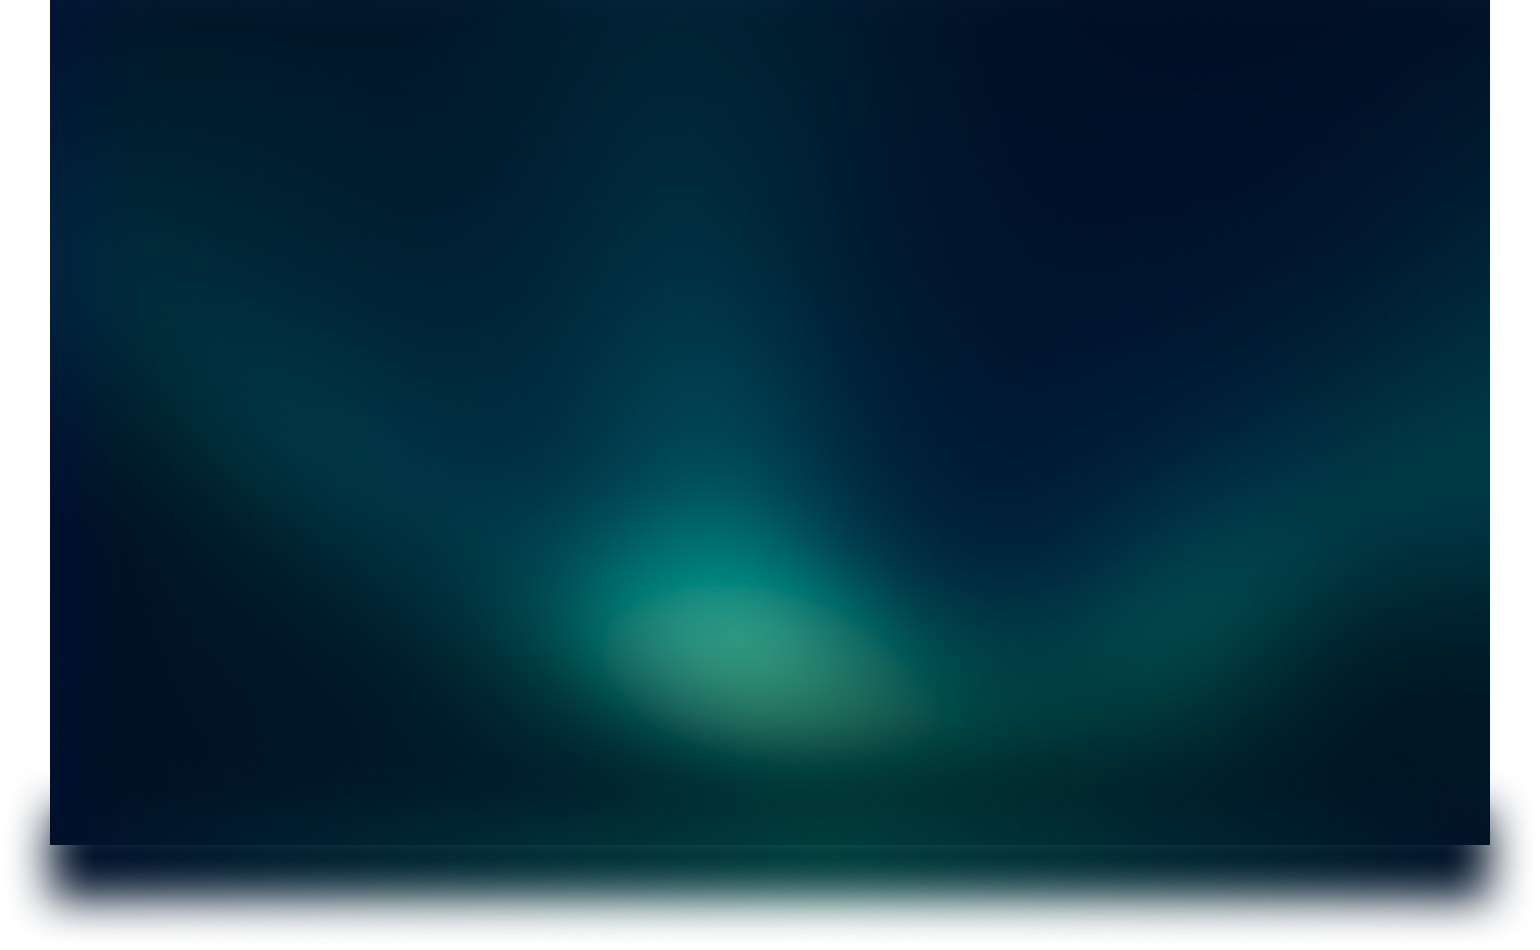
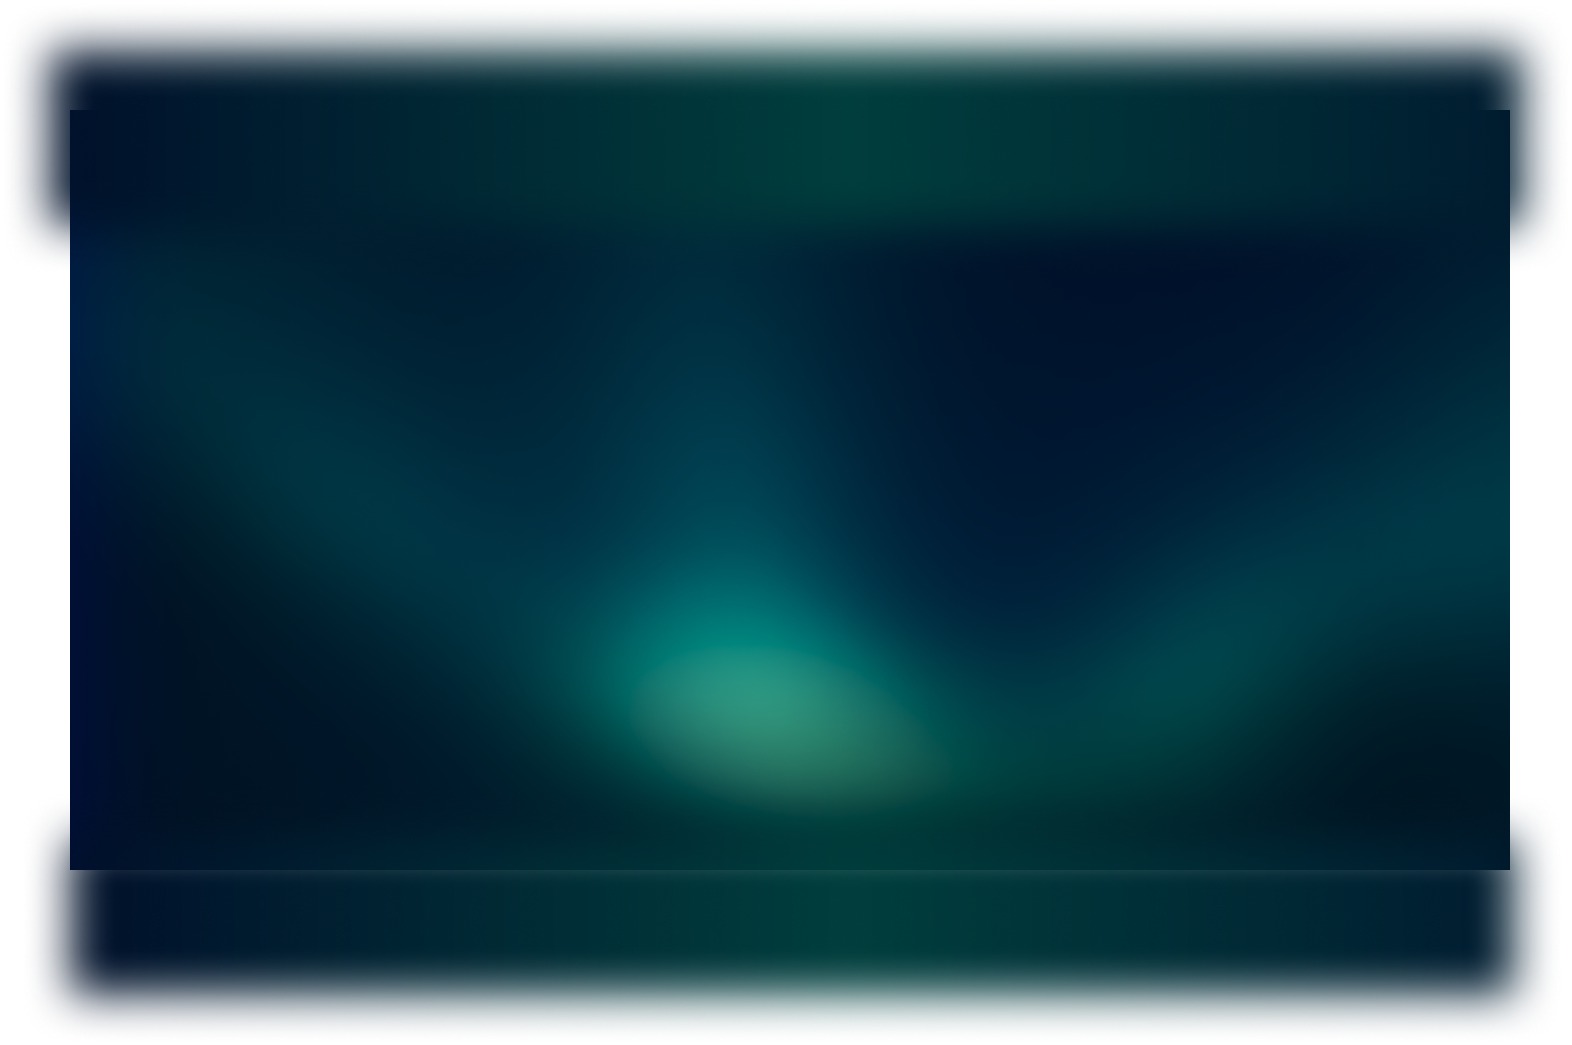
feat: Updates

Changed region(s): [[0.0, 0.0, 0.9974, 0.9768]]

diff --git a/app/components/Home/Hero.tsx b/app/components/Home/Hero.tsx
@@ -5,6 +5,8 @@ import Line from '@/app/components/shared/Line'
 import AppStore from '@/public/Images/AppStore.png'
 import GooglePlay from '@/public/Images/GooglePlay.png'
 import HeroBG from '@/public/Images/Hero BG.png'
+import HeroOverlayImage1 from '@/public/Images/Card.png'
+import HeroOverlayImage2 from '@/public/Images/User.png'
 import { contents } from '@/app/data/contents'
 // import HeroOverlay from '@/public/Images/HeroOverlay.png'
 
@@ -103,7 +105,7 @@ export default function Hero({ mode, setMode }: HeroProps) {
         </div>
 
         {/* RIGHT COLUMN: Hero Illustration */}
-        <div className="relative flex justify-end bg-transparent w-full md:mt-48 lg:mt-0">
+        {/* <div className="relative flex justify-end bg-transparent w-full md:mt-48 lg:mt-0">
           <div className="w-full h-75 lg:h-full lg:absolute transition-opacity duration-500">
             <Image
               src={contents[mode].image}
@@ -115,6 +117,46 @@ export default function Hero({ mode, setMode }: HeroProps) {
                 mode === 'crypto' ? 'lg:scale-130' : 'lg:scale-110'
               } w-full animate-in fade-in zoom-in duration-700`}
             />
+          </div>
+        </div> */}
+
+        {/* RIGHT COLUMN: Hero Illustration */}
+        <div className="relative flex justify-end bg-transparent w-full md:mt-48 lg:mt-0">
+          <div className="w-full h-75 lg:h-full lg:absolute transition-opacity duration-500">
+            {/* MAIN ILLUSTRATION */}
+            <Image
+              src={contents[mode].image}
+              alt="Payboost Illustration"
+              key={mode}
+              priority
+              fill
+              className={`object-contain scale-125 md:scale-200 ${
+                mode === 'crypto' ? 'lg:scale-130' : 'lg:scale-110'
+              } w-full animate-in fade-in zoom-in duration-700`}
+            />
+
+            {/* OVERLAY IMAGES (Only for Pay mode) */}
+            {mode === 'pay' && (
+              <div className="absolute inset-0 z-10 pointer-events-none">
+                {/* HeroOverlayImage1: Bottom Left */}
+                <div className="absolute bottom-[10%] left-[10%] w-24 md:w-32 lg:w-40 animate-in slide-in-from-bottom-4 fade-in duration-1000">
+                  <Image
+                    src={HeroOverlayImage1}
+                    alt="Card Overlay"
+                    className="object-contain"
+                  />
+                </div>
+
+                {/* HeroOverlayImage2: Center */}
+                <div className="absolute top-1/2 left-1/2 -translate-x-1/2 -translate-y-1/2 w-20 md:w-28 lg:w-36 animate-in zoom-in-50 fade-in duration-1000">
+                  <Image
+                    src={HeroOverlayImage2}
+                    alt="User Overlay"
+                    className="object-contain"
+                  />
+                </div>
+              </div>
+            )}
           </div>
         </div>
       </div>
